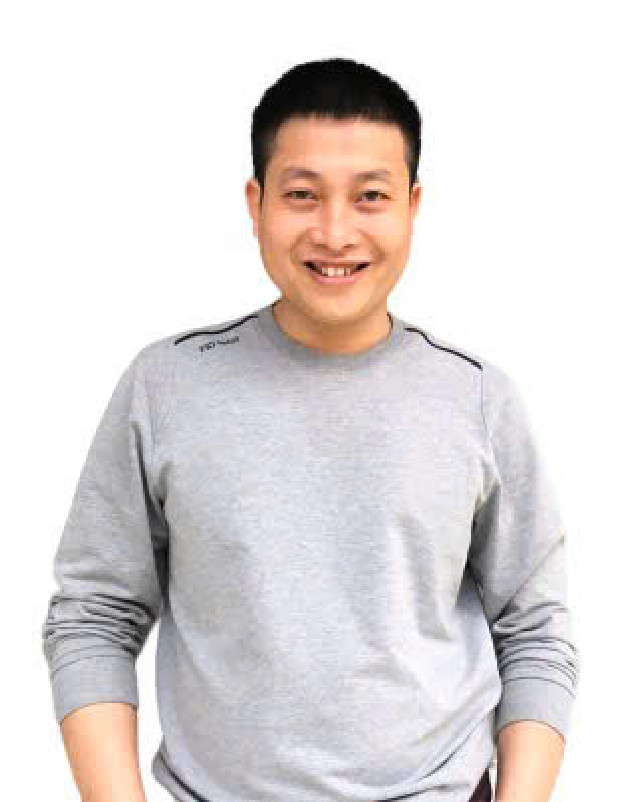
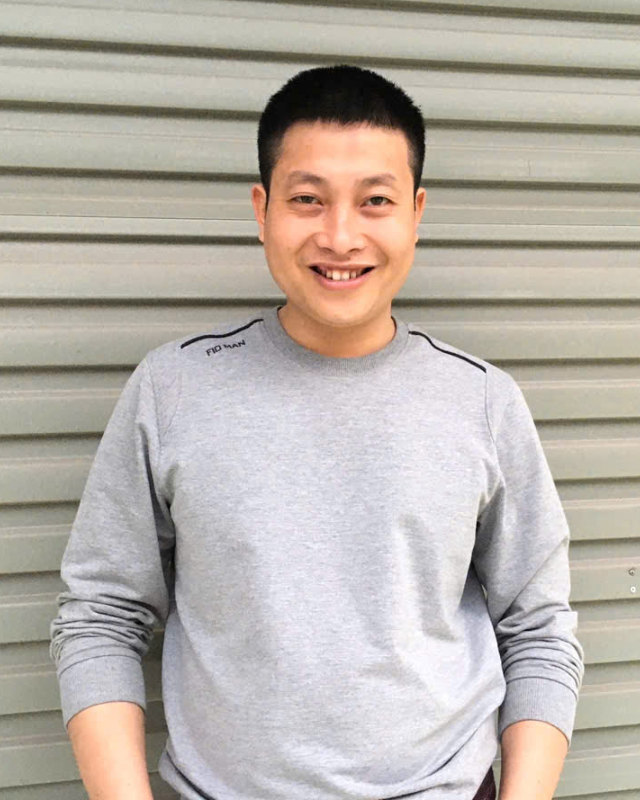
Thay ảnh chân dung bằng ảnh gốc

diff --git a/index.html b/index.html
@@ -44,7 +44,7 @@
     </div>
     <div class="photo" id="khung-anh">
       <div class="frame">
-        <img src="anh/chan-dung.jpg?v=3" alt="Phạm Quang Đại" onerror="document.getElementById('khung-anh').classList.add('trong')">
+        <img src="anh/chan-dung.jpg?v=4" alt="Phạm Quang Đại" onerror="document.getElementById('khung-anh').classList.add('trong')">
         <div class="empty"><b>PQĐ</b><span>Ảnh chân dung sẽ đặt ở đây</span></div>
       </div>
       <div class="tag"><b>Phạm Quang Đại</b>15 năm làm hồ sơ thanh quyết toán</div>
